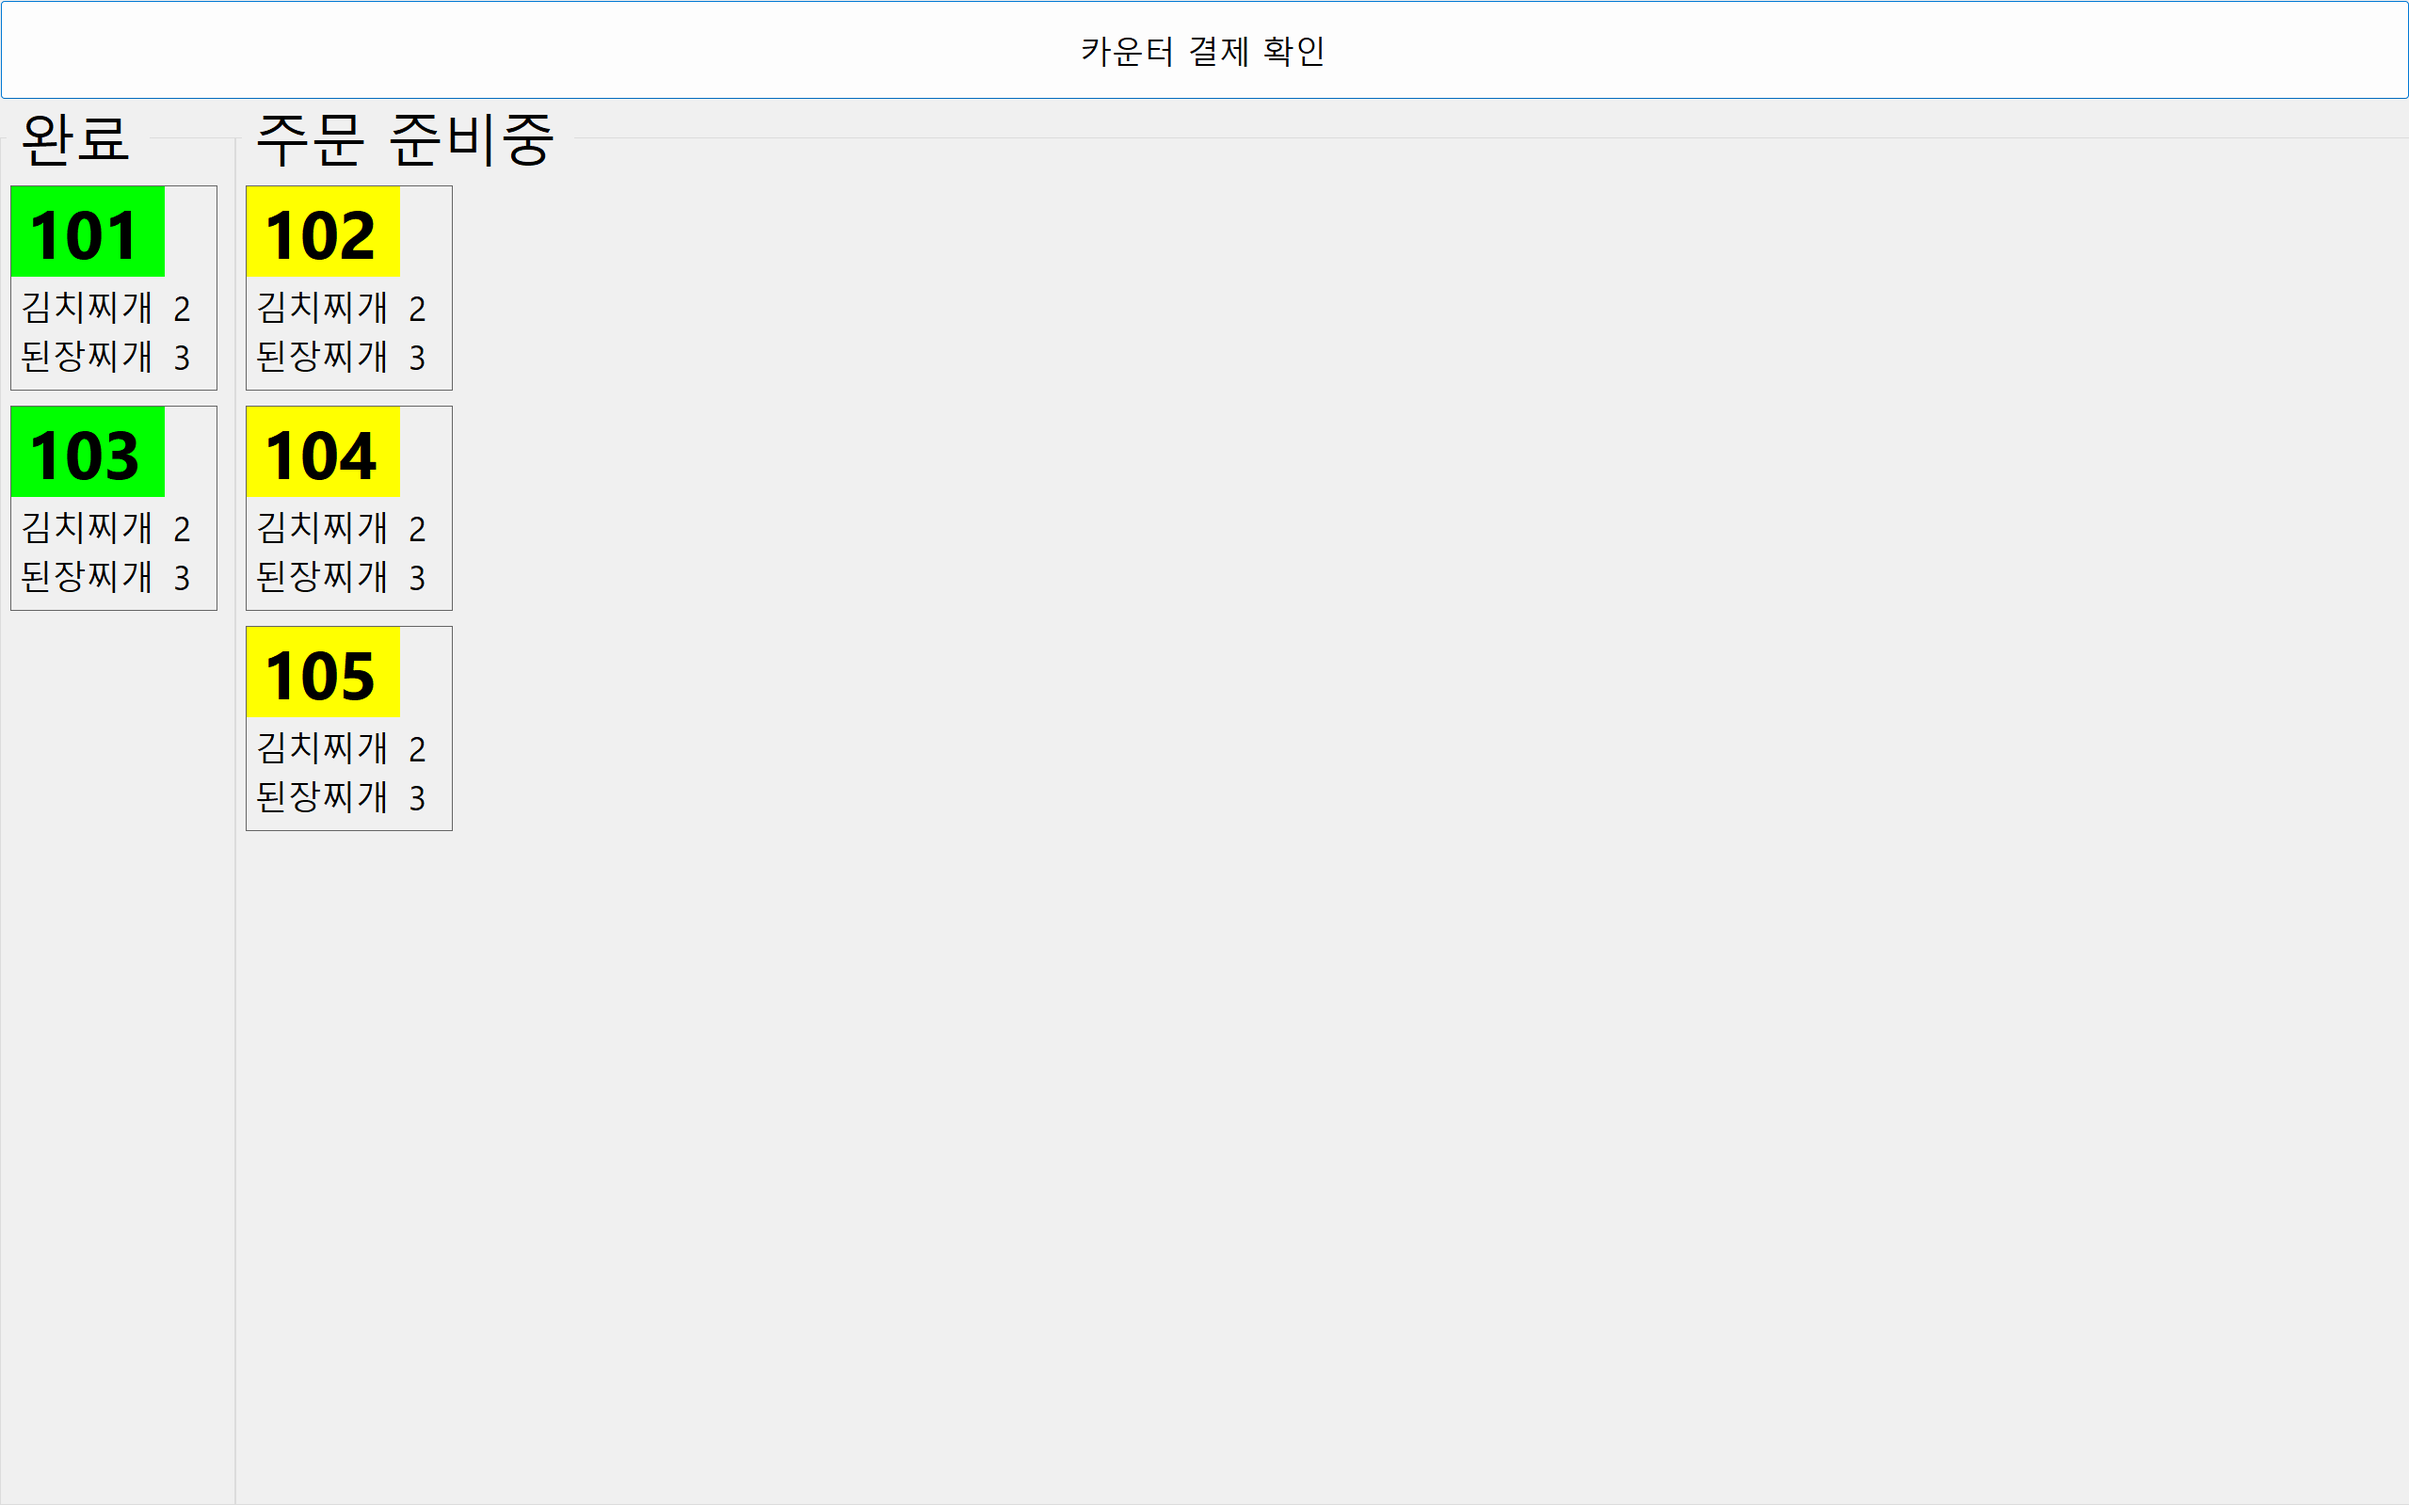
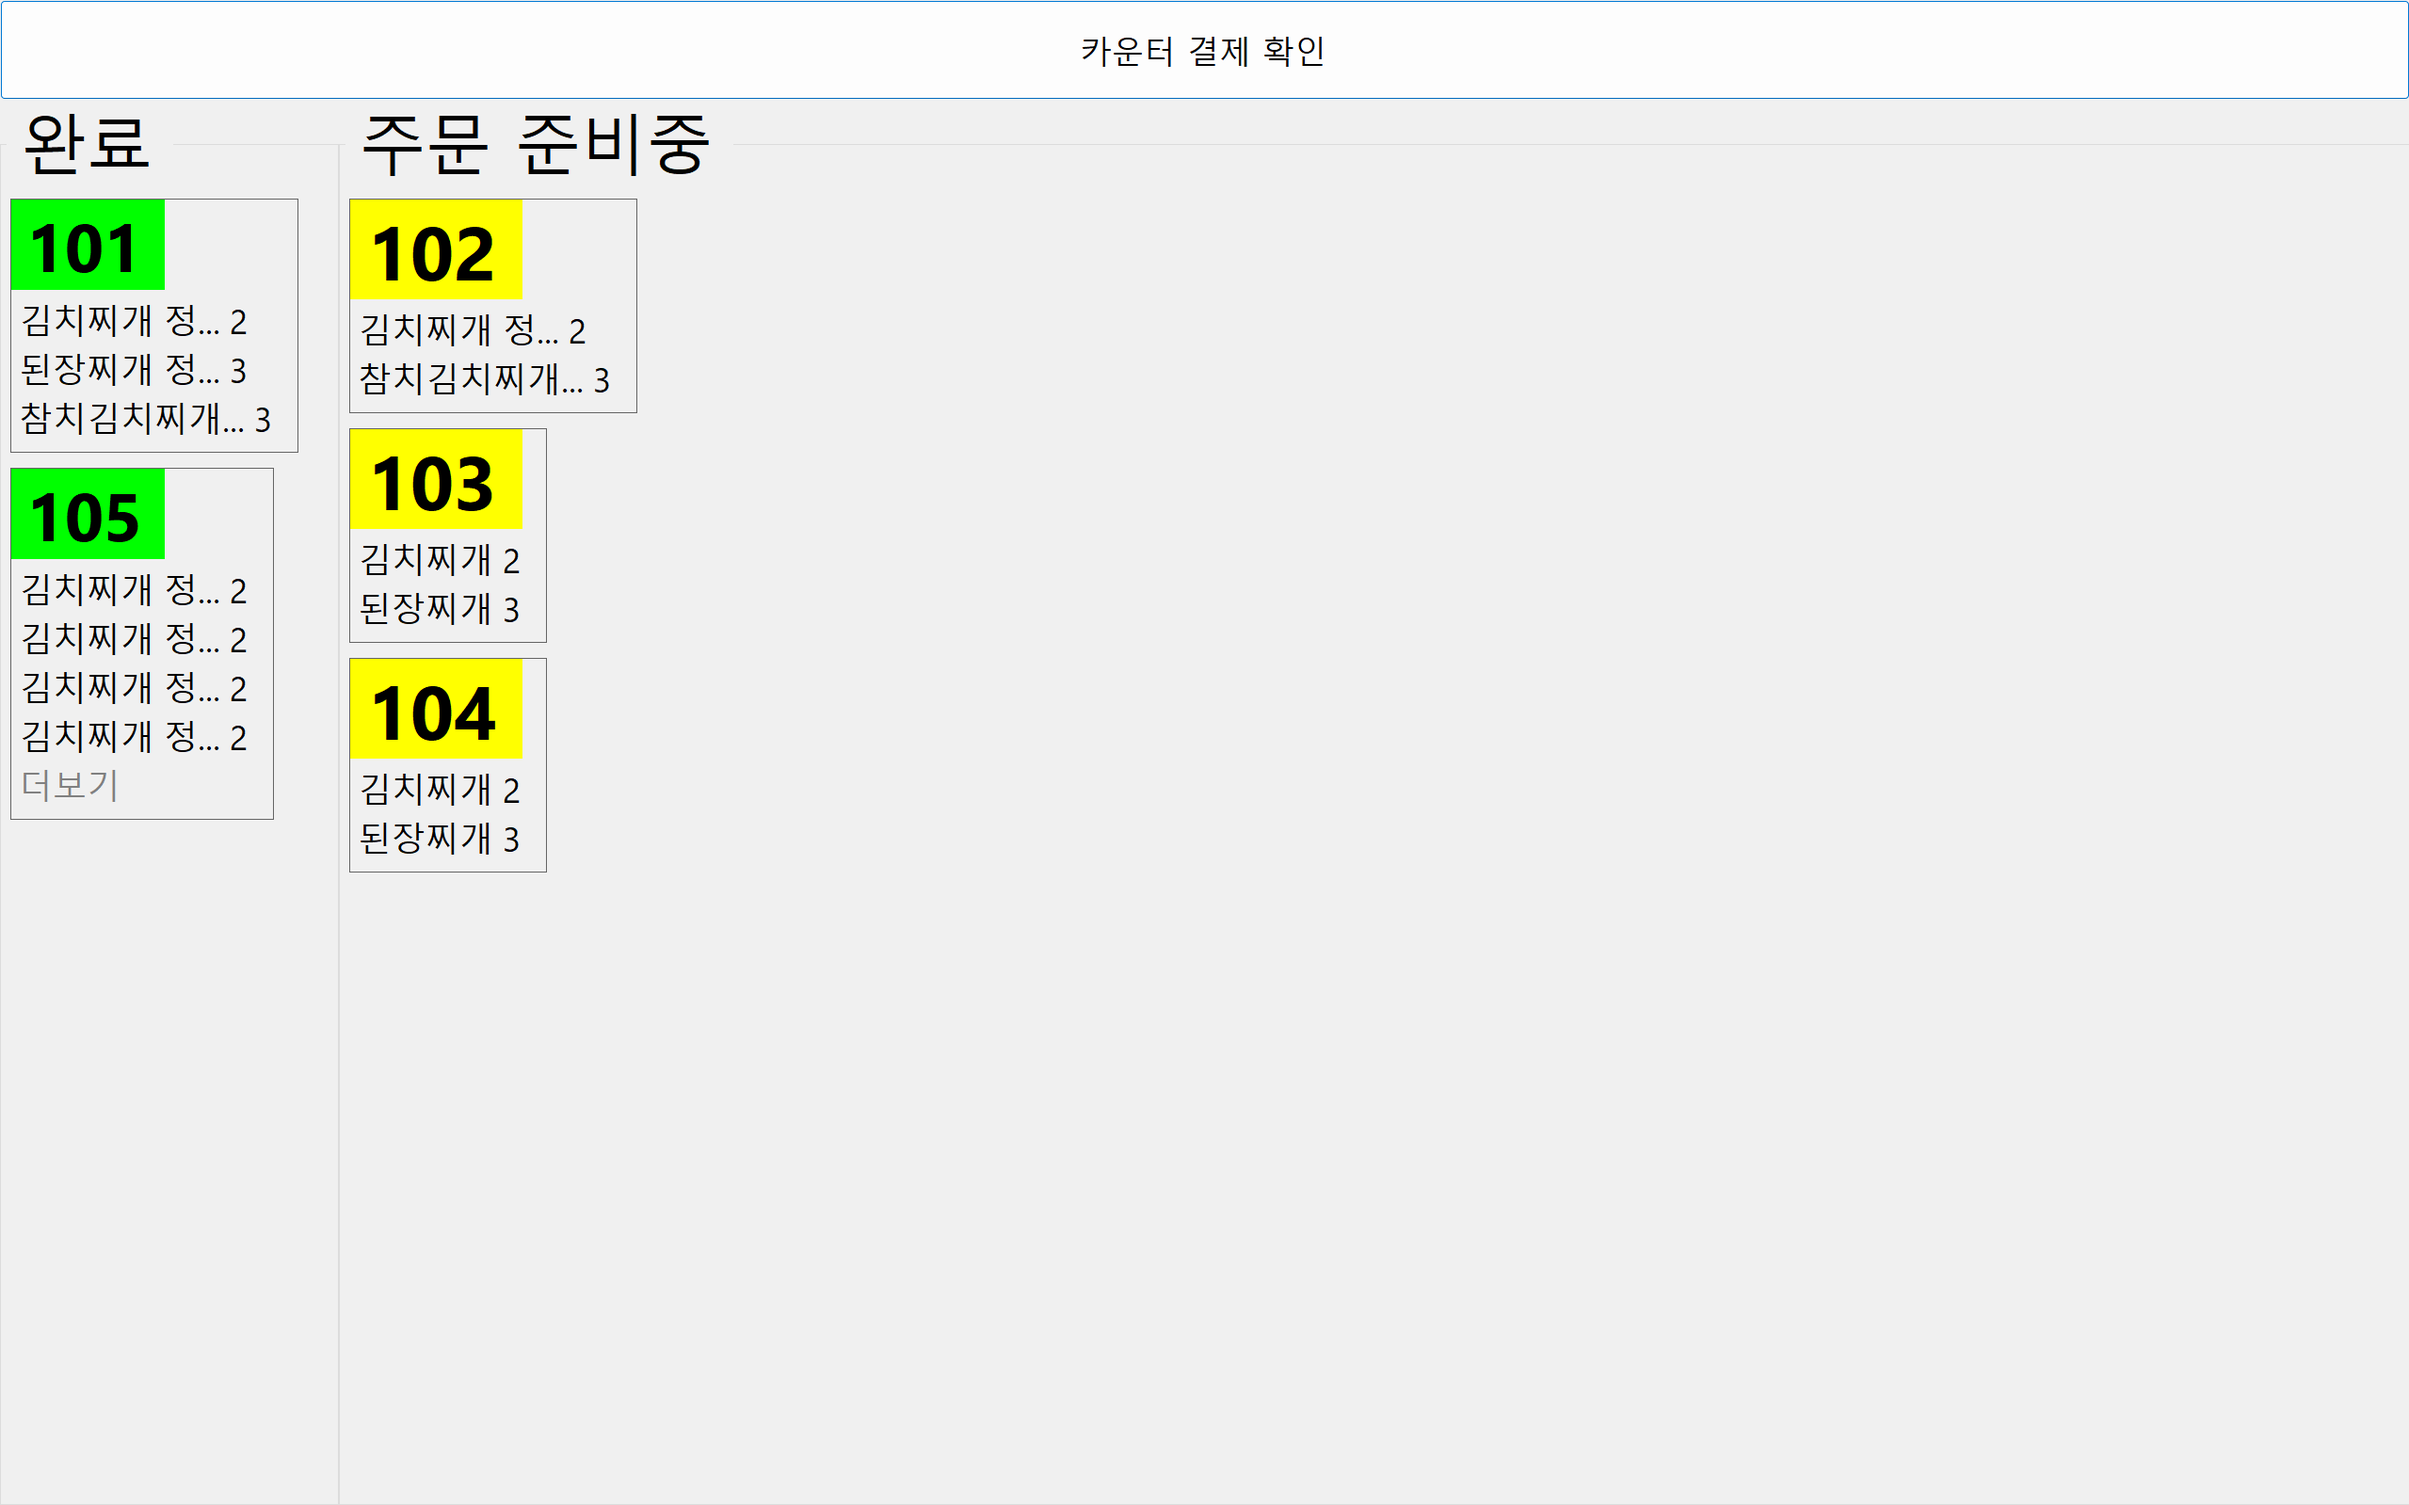
docs demo img changed

Changed region(s): [[0.0, 0.0613, 0.3087, 0.5822]]

diff --git a/wishKioskDIDReceive/receiveMain.cs b/wishKioskDIDReceive/receiveMain.cs
@@ -177,7 +177,7 @@ namespace wishKioskDIDReceive
                 var numberLabel = new Label
                 {
                     Text = order.orderNumber.ToString(),
-                    Font = new Font("Segoe UI", 36, FontStyle.Bold),
+                    Font = new Font("Segoe UI", 40, FontStyle.Bold),
                     AutoSize = true,
                     Cursor = Cursors.Hand,
                     Tag = order
@@ -188,11 +188,28 @@ namespace wishKioskDIDReceive
 
                 // 주문 항목
                 int offsetY = numberLabel.Bottom + 8;
+                int orderCnt = 0;
                 foreach (var item in order.order)
                 {
+                    orderCnt++;
+                    if (orderCnt > 4)
+                    {
+                        var lbl = new Label
+                        {
+                            Text = "더보기",
+                            Font = new Font("Segoe UI", 18),
+                            ForeColor = Color.Gray,
+                            Location = new Point(0, offsetY),
+                            AutoSize = true
+                        };
+                        panel.Controls.Add(lbl);
+                        offsetY += lbl.Height + 4;
+                        break;
+                    }
+
                     var lblItem = new Label
                     {
-                        Text = $"{item.Name}  {item.Count}",
+                        Text = (item.Name.Length > 6 ? $"{item.Name[..6]}... " : $"{item.Name} ") + item.Count,
                         Font = new Font("Segoe UI", 18),
                         Location = new Point(0, offsetY),
                         AutoSize = true
@@ -239,11 +256,28 @@ namespace wishKioskDIDReceive
 
                 // 주문 항목
                 int offsetY = numberLabel.Bottom + 8;
+                int orderCnt = 0;
                 foreach (var item in order.order)
                 {
+                    orderCnt++;
+                    if (orderCnt > 4)
+                    {
+                        var lbl = new Label
+                        {
+                            Text = "더보기",
+                            Font = new Font("Segoe UI", 18),
+                            ForeColor = Color.Gray,
+                            Location = new Point(0, offsetY),
+                            AutoSize = true
+                        };
+                        panel.Controls.Add(lbl);
+                        offsetY += lbl.Height + 4;
+                        break;
+                    }
+
                     var lblItem = new Label
                     {
-                        Text = $"{item.Name}  {item.Count}",
+                        Text = (item.Name.Length > 6 ? $"{item.Name[..6]}... " : $"{item.Name} ") + item.Count,
                         Font = new Font("Segoe UI", 18),
                         Location = new Point(0, offsetY),
                         AutoSize = true
@@ -493,6 +527,12 @@ namespace wishKioskDIDReceive
                 string input = Interaction.InputBox("서버 주소를 입력하세요:", "서버 주소 설정", serverUrl);
                 if (!string.IsNullOrWhiteSpace(input))
                 {
+                    if (!input.StartsWith("http"))
+                    {
+                        MessageBox.Show("유효하지 않은 서버 주소입니다.", "오류", MessageBoxButtons.OK, MessageBoxIcon.Error);
+                        receiveMain_KeyDown(sender, e);
+                        return;
+                    }
                     serverUrl = input.Trim().TrimEnd('/');
                     File.WriteAllText(serverUrlPath, serverUrl);
                 }

diff --git a/wishKioskDID/displayMain.Designer.cs b/wishKioskDID/displayMain.Designer.cs
@@ -45,10 +45,10 @@ namespace wishKioskDIDDisplay
             // 
             groupBoxCompleted.Controls.Add(flowLayoutPanelCompletedOrders);
             groupBoxCompleted.Dock = DockStyle.Left;
-            groupBoxCompleted.Font = new System.Drawing.Font("맑은 고딕", 30F);
+            groupBoxCompleted.Font = new System.Drawing.Font("맑은 고딕", 40F);
             groupBoxCompleted.Location = new Point(0, 0);
             groupBoxCompleted.Name = "groupBoxCompleted";
-            groupBoxCompleted.Size = new Size(365, 723);
+            groupBoxCompleted.Size = new Size(397, 723);
             groupBoxCompleted.TabIndex = 1;
             groupBoxCompleted.TabStop = false;
             groupBoxCompleted.Text = "완료";
@@ -58,9 +58,9 @@ namespace wishKioskDIDDisplay
             flowLayoutPanelCompletedOrders.AutoScroll = true;
             flowLayoutPanelCompletedOrders.Dock = DockStyle.Fill;
             flowLayoutPanelCompletedOrders.FlowDirection = FlowDirection.TopDown;
-            flowLayoutPanelCompletedOrders.Location = new Point(3, 83);
+            flowLayoutPanelCompletedOrders.Location = new Point(3, 110);
             flowLayoutPanelCompletedOrders.Name = "flowLayoutPanelCompletedOrders";
-            flowLayoutPanelCompletedOrders.Size = new Size(359, 637);
+            flowLayoutPanelCompletedOrders.Size = new Size(391, 610);
             flowLayoutPanelCompletedOrders.TabIndex = 0;
             flowLayoutPanelCompletedOrders.WrapContents = false;
             // 
@@ -68,10 +68,10 @@ namespace wishKioskDIDDisplay
             // 
             groupBoxPreparing.Controls.Add(flowLayoutPanelOrders);
             groupBoxPreparing.Dock = DockStyle.Fill;
-            groupBoxPreparing.Font = new System.Drawing.Font("맑은 고딕", 30F);
-            groupBoxPreparing.Location = new Point(365, 0);
+            groupBoxPreparing.Font = new System.Drawing.Font("맑은 고딕", 40F);
+            groupBoxPreparing.Location = new Point(397, 0);
             groupBoxPreparing.Name = "groupBoxPreparing";
-            groupBoxPreparing.Size = new Size(764, 723);
+            groupBoxPreparing.Size = new Size(732, 723);
             groupBoxPreparing.TabIndex = 2;
             groupBoxPreparing.TabStop = false;
             groupBoxPreparing.Text = "주문 준비중";
@@ -81,9 +81,9 @@ namespace wishKioskDIDDisplay
             flowLayoutPanelOrders.AutoScroll = true;
             flowLayoutPanelOrders.Dock = DockStyle.Fill;
             flowLayoutPanelOrders.FlowDirection = FlowDirection.TopDown;
-            flowLayoutPanelOrders.Location = new Point(3, 83);
+            flowLayoutPanelOrders.Location = new Point(3, 110);
             flowLayoutPanelOrders.Name = "flowLayoutPanelOrders";
-            flowLayoutPanelOrders.Size = new Size(758, 637);
+            flowLayoutPanelOrders.Size = new Size(726, 610);
             flowLayoutPanelOrders.TabIndex = 0;
             flowLayoutPanelOrders.WrapContents = false;
             // 

diff --git a/wishKioskDIDReceive/receiveMain.Designer.cs b/wishKioskDIDReceive/receiveMain.Designer.cs
@@ -55,10 +55,10 @@
             // 
             groupBoxCompleted.Controls.Add(flowLayoutPanelCompletedOrders);
             groupBoxCompleted.Dock = DockStyle.Left;
-            groupBoxCompleted.Font = new Font("맑은 고딕", 30F);
+            groupBoxCompleted.Font = new Font("맑은 고딕", 35F);
             groupBoxCompleted.Location = new Point(0, 106);
             groupBoxCompleted.Name = "groupBoxCompleted";
-            groupBoxCompleted.Size = new Size(250, 617);
+            groupBoxCompleted.Size = new Size(360, 617);
             groupBoxCompleted.TabIndex = 1;
             groupBoxCompleted.TabStop = false;
             groupBoxCompleted.Text = "완료";
@@ -68,9 +68,9 @@
             flowLayoutPanelCompletedOrders.AutoScroll = true;
             flowLayoutPanelCompletedOrders.Dock = DockStyle.Fill;
             flowLayoutPanelCompletedOrders.FlowDirection = FlowDirection.TopDown;
-            flowLayoutPanelCompletedOrders.Location = new Point(3, 83);
+            flowLayoutPanelCompletedOrders.Location = new Point(3, 97);
             flowLayoutPanelCompletedOrders.Name = "flowLayoutPanelCompletedOrders";
-            flowLayoutPanelCompletedOrders.Size = new Size(244, 531);
+            flowLayoutPanelCompletedOrders.Size = new Size(354, 517);
             flowLayoutPanelCompletedOrders.TabIndex = 0;
             flowLayoutPanelCompletedOrders.WrapContents = false;
             // 
@@ -78,10 +78,10 @@
             // 
             groupBoxPreparing.Controls.Add(flowLayoutPanelOrders);
             groupBoxPreparing.Dock = DockStyle.Fill;
-            groupBoxPreparing.Font = new Font("맑은 고딕", 30F);
-            groupBoxPreparing.Location = new Point(250, 106);
+            groupBoxPreparing.Font = new Font("맑은 고딕", 35F);
+            groupBoxPreparing.Location = new Point(360, 106);
             groupBoxPreparing.Name = "groupBoxPreparing";
-            groupBoxPreparing.Size = new Size(879, 617);
+            groupBoxPreparing.Size = new Size(769, 617);
             groupBoxPreparing.TabIndex = 2;
             groupBoxPreparing.TabStop = false;
             groupBoxPreparing.Text = "주문 준비중";
@@ -91,9 +91,9 @@
             flowLayoutPanelOrders.AutoScroll = true;
             flowLayoutPanelOrders.Dock = DockStyle.Fill;
             flowLayoutPanelOrders.FlowDirection = FlowDirection.TopDown;
-            flowLayoutPanelOrders.Location = new Point(3, 83);
+            flowLayoutPanelOrders.Location = new Point(3, 97);
             flowLayoutPanelOrders.Name = "flowLayoutPanelOrders";
-            flowLayoutPanelOrders.Size = new Size(873, 531);
+            flowLayoutPanelOrders.Size = new Size(763, 517);
             flowLayoutPanelOrders.TabIndex = 0;
             flowLayoutPanelOrders.WrapContents = false;
             // 

diff --git a/wishKioskDID/displayMain.cs b/wishKioskDID/displayMain.cs
@@ -161,7 +161,7 @@ namespace wishKioskDIDDisplay
                 var numberLabel = new Label
                 {
                     Text = order.ToString(),
-                    Font = new Font("Segoe UI", 70, FontStyle.Bold),
+                    Font = new Font("Segoe UI", 80, FontStyle.Bold),
                     AutoSize = true,
                     Cursor = Cursors.Hand,
                     Tag = order
@@ -196,7 +196,7 @@ namespace wishKioskDIDDisplay
                 var numberLabel = new Label
                 {
                     Text = order.ToString(),
-                    Font = new Font("Segoe UI", 70, FontStyle.Bold),
+                    Font = new Font("Segoe UI", 80, FontStyle.Bold),
                     AutoSize = true,
                     Cursor = Cursors.Hand,
                     Tag = order
@@ -215,6 +215,12 @@ namespace wishKioskDIDDisplay
                 string input = Interaction.InputBox("서버 주소를 입력하세요:", "서버 주소 설정", serverUrl);
                 if (!string.IsNullOrWhiteSpace(input))
                 {
+                    if (!input.StartsWith("http"))
+                    {
+                        MessageBox.Show("유효하지 않은 서버 주소입니다.", "오류", MessageBoxButtons.OK, MessageBoxIcon.Error);
+                        displayMain_KeyDown(sender, e);
+                        return;
+                    }
                     serverUrl = input.Trim().TrimEnd('/');
                     File.WriteAllText(serverUrlPath, serverUrl);
                 }
